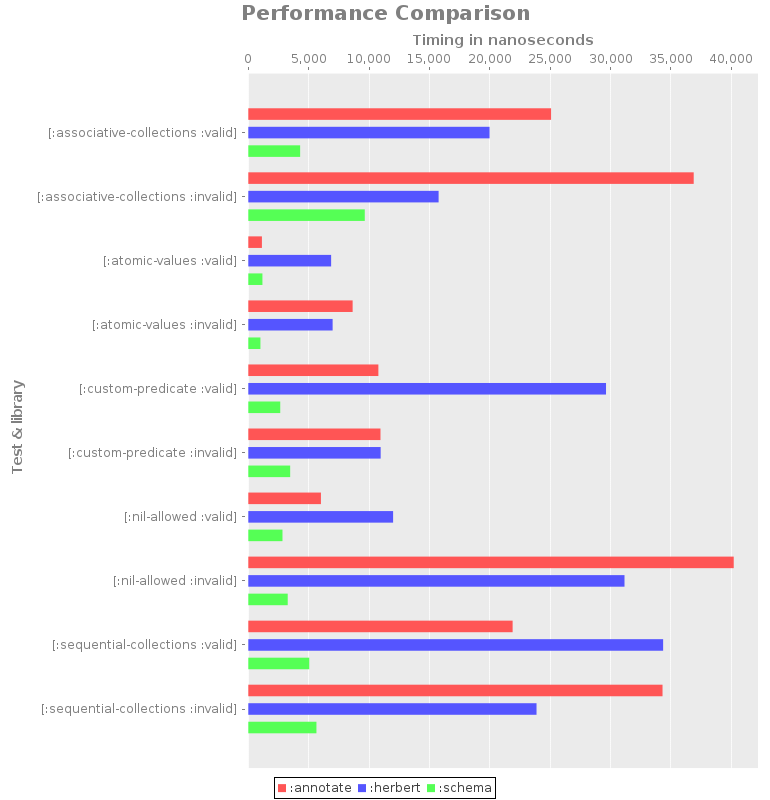
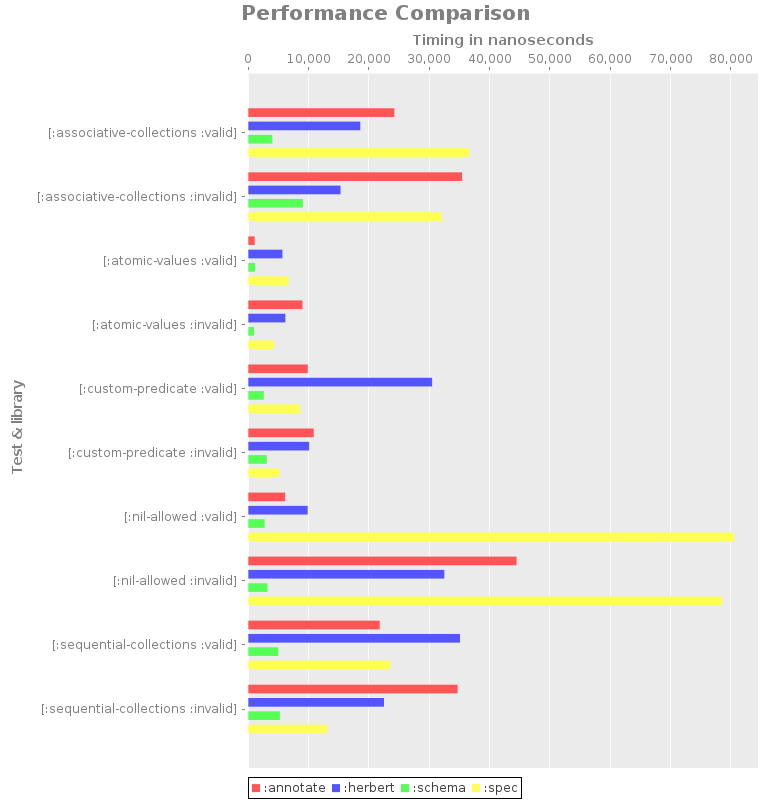
Deploy to GitHub Pages

diff --git a/index.html b/index.html
@@ -1,5 +1,5 @@
 <!DOCTYPE html>
-<html><head><link crossorigin="anonymous" href="https://maxcdn.bootstrapcdn.com/bootstrap/3.3.6/css/bootstrap.min.css" integrity="sha384-1q8mTJOASx8j1Au+a5WDVnPi2lkFfwwEAa8hDDdjZlpLegxhjVME1fgjWPGmkzs7" rel="stylesheet"><link crossorigin="anonymous" href="https://maxcdn.bootstrapcdn.com/bootstrap/3.3.6/css/bootstrap-theme.min.css" integrity="sha384-fLW2N01lMqjakBkx3l/M9EahuwpSfeNvV63J5ezn3uZzapT0u7EYsXMjQV+0En5r" rel="stylesheet"><script src="https://code.jquery.com/jquery-2.2.3.min.js"></script><script crossorigin="anonymous" integrity="sha384-0mSbJDEHialfmuBBQP6A4Qrprq5OVfW37PRR3j5ELqxss1yVqOtnepnHVP9aJ7xS" src="https://maxcdn.bootstrapcdn.com/bootstrap/3.3.6/js/bootstrap.min.js"></script></head><body data-spy="scroll" data-target="#navbar"><a href="https://github.com/muhuk/validation-benchmark"><img alt="Fork me on GitHub" data-canonical-src="https://s3.amazonaws.com/github/ribbons/forkme_right_gray_6d6d6d.png" src="https://camo.githubusercontent.com/a6677b08c955af8400f44c6298f40e7d19cc5b2d/68747470733a2f2f73332e616d617a6f6e6177732e636f6d2f6769746875622f726962626f6e732f666f726b6d655f72696768745f677261795f3664366436642e706e67" style="position: absolute; top: 0; right: 0; border: 0;"></a><div class="container"><div class="row" id="top"><div class="col-md-12"><div class="page-header"><h1>validation-benchmark <small>Updated at 2016-05-16</small></h1></div></div></div><div class="row"><div class="col-md-10"><div><h2 id="about">About</h2><div>Benchmark for Clojure validation libraries.</div><div><a href="https://github.com/muhuk/validation-benchmark">Source code</a></div></div><div><h2 id="relative-performance-table">Relative performance table</h2><table class="table"><tr><th>Test</th><th>annotate</th><th>herbert</th><th>schema</th></tr><tr><td><code>[:associative-collections :invalid]</code></td><td class="danger">3.824</td><td class="warning">1.634</td><td class="success">1.000</td></tr><tr><td><code>[:associative-collections :valid]</code></td><td class="danger">5.839</td><td class="danger">4.653</td><td class="success">1.000</td></tr><tr><td><code>[:atomic-values :invalid]</code></td><td class="danger">8.598</td><td class="danger">6.949</td><td class="success">1.000</td></tr><tr><td><code>[:atomic-values :valid]</code></td><td class="success">1.000</td><td class="danger">6.086</td><td class="success">1.038</td></tr><tr><td><code>[:custom-predicate :invalid]</code></td><td class="danger">3.157</td><td class="danger">3.161</td><td class="success">1.000</td></tr><tr><td><code>[:custom-predicate :valid]</code></td><td class="danger">4.072</td><td class="danger">11.196</td><td class="success">1.000</td></tr><tr><td><code>[:nil-allowed :invalid]</code></td><td class="danger">12.315</td><td class="danger">9.544</td><td class="success">1.000</td></tr><tr><td><code>[:nil-allowed :valid]</code></td><td class="warning">2.125</td><td class="danger">4.237</td><td class="success">1.000</td></tr><tr><td><code>[:sequential-collections :invalid]</code></td><td class="danger">6.079</td><td class="danger">4.230</td><td class="success">1.000</td></tr><tr><td><code>[:sequential-collections :valid]</code></td><td class="danger">4.337</td><td class="danger">6.806</td><td class="success">1.000</td></tr></table></div><div><h2 id="performance-graph">Performance Graph</h2><img src="chart.png"></div></div><div class="col-md-2" id="navbar"><ul class="nav nav-pills nav-stacked" data-spy="affix"><li><a href="#top"><span class="glyphicon glyphicon-triangle-top"></span> Top</a></li><li><a href="#about"><span class="glyphicon glyphicon-triangle-right"></span> About</a></li><li><a href="#relative-performance-table"><span class="glyphicon glyphicon-triangle-right"></span> Relative performance table</a></li><li><a href="#performance-graph"><span class="glyphicon glyphicon-triangle-right"></span> Performance Graph</a></li></ul></div></div><script>
+<html><head><link crossorigin="anonymous" href="https://maxcdn.bootstrapcdn.com/bootstrap/3.3.6/css/bootstrap.min.css" integrity="sha384-1q8mTJOASx8j1Au+a5WDVnPi2lkFfwwEAa8hDDdjZlpLegxhjVME1fgjWPGmkzs7" rel="stylesheet"><link crossorigin="anonymous" href="https://maxcdn.bootstrapcdn.com/bootstrap/3.3.6/css/bootstrap-theme.min.css" integrity="sha384-fLW2N01lMqjakBkx3l/M9EahuwpSfeNvV63J5ezn3uZzapT0u7EYsXMjQV+0En5r" rel="stylesheet"><script src="https://code.jquery.com/jquery-2.2.3.min.js"></script><script crossorigin="anonymous" integrity="sha384-0mSbJDEHialfmuBBQP6A4Qrprq5OVfW37PRR3j5ELqxss1yVqOtnepnHVP9aJ7xS" src="https://maxcdn.bootstrapcdn.com/bootstrap/3.3.6/js/bootstrap.min.js"></script></head><body data-spy="scroll" data-target="#navbar"><a href="https://github.com/muhuk/validation-benchmark"><img alt="Fork me on GitHub" data-canonical-src="https://s3.amazonaws.com/github/ribbons/forkme_right_gray_6d6d6d.png" src="https://camo.githubusercontent.com/a6677b08c955af8400f44c6298f40e7d19cc5b2d/68747470733a2f2f73332e616d617a6f6e6177732e636f6d2f6769746875622f726962626f6e732f666f726b6d655f72696768745f677261795f3664366436642e706e67" style="position: absolute; top: 0; right: 0; border: 0;"></a><div class="container"><div class="row" id="top"><div class="col-md-12"><div class="page-header"><h1>validation-benchmark <small>Updated at 2016-06-05</small></h1></div></div></div><div class="row"><div class="col-md-10"><div><h2 id="about">About</h2><div>Benchmark for Clojure validation libraries.</div><div><a href="https://github.com/muhuk/validation-benchmark">Source code</a></div></div><div><h2 id="relative-performance-table">Relative performance table</h2><table class="table"><tr><th>Test</th><th>annotate</th><th>herbert</th><th>schema</th><th>spec</th></tr><tr><td><code>[:associative-collections :invalid]</code></td><td class="danger">3.915</td><td class="warning">1.689</td><td class="success">1.000</td><td class="danger">3.538</td></tr><tr><td><code>[:associative-collections :valid]</code></td><td class="danger">6.083</td><td class="danger">4.664</td><td class="success">1.000</td><td class="danger">9.215</td></tr><tr><td><code>[:atomic-values :invalid]</code></td><td class="danger">9.618</td><td class="danger">6.589</td><td class="success">1.000</td><td class="danger">4.572</td></tr><tr><td><code>[:atomic-values :valid]</code></td><td class="success">1.000</td><td class="danger">5.342</td><td class="warning">1.068</td><td class="danger">6.308</td></tr><tr><td><code>[:custom-predicate :invalid]</code></td><td class="danger">3.537</td><td class="danger">3.288</td><td class="success">1.000</td><td class="warning">1.684</td></tr><tr><td><code>[:custom-predicate :valid]</code></td><td class="danger">3.835</td><td class="danger">11.848</td><td class="success">1.000</td><td class="danger">3.327</td></tr><tr><td><code>[:nil-allowed :invalid]</code></td><td class="danger">14.001</td><td class="danger">10.229</td><td class="success">1.000</td><td class="danger">24.732</td></tr><tr><td><code>[:nil-allowed :valid]</code></td><td class="warning">2.260</td><td class="danger">3.644</td><td class="success">1.000</td><td class="danger">29.798</td></tr><tr><td><code>[:sequential-collections :invalid]</code></td><td class="danger">6.629</td><td class="danger">4.297</td><td class="success">1.000</td><td class="warning">2.499</td></tr><tr><td><code>[:sequential-collections :valid]</code></td><td class="danger">4.383</td><td class="danger">7.063</td><td class="success">1.000</td><td class="danger">4.746</td></tr></table></div><div><h2 id="performance-graph">Performance Graph</h2><img src="chart.png"></div></div><div class="col-md-2" id="navbar"><ul class="nav nav-pills nav-stacked" data-spy="affix"><li><a href="#top"><span class="glyphicon glyphicon-triangle-top"></span> Top</a></li><li><a href="#about"><span class="glyphicon glyphicon-triangle-right"></span> About</a></li><li><a href="#relative-performance-table"><span class="glyphicon glyphicon-triangle-right"></span> Relative performance table</a></li><li><a href="#performance-graph"><span class="glyphicon glyphicon-triangle-right"></span> Performance Graph</a></li></ul></div></div><script>
   (function(i,s,o,g,r,a,m){i['GoogleAnalyticsObject']=r;i[r]=i[r]||function(){
   (i[r].q=i[r].q||[]).push(arguments)},i[r].l=1*new Date();a=s.createElement(o),
   m=s.getElementsByTagName(o)[0];a.async=1;a.src=g;m.parentNode.insertBefore(a,m)
